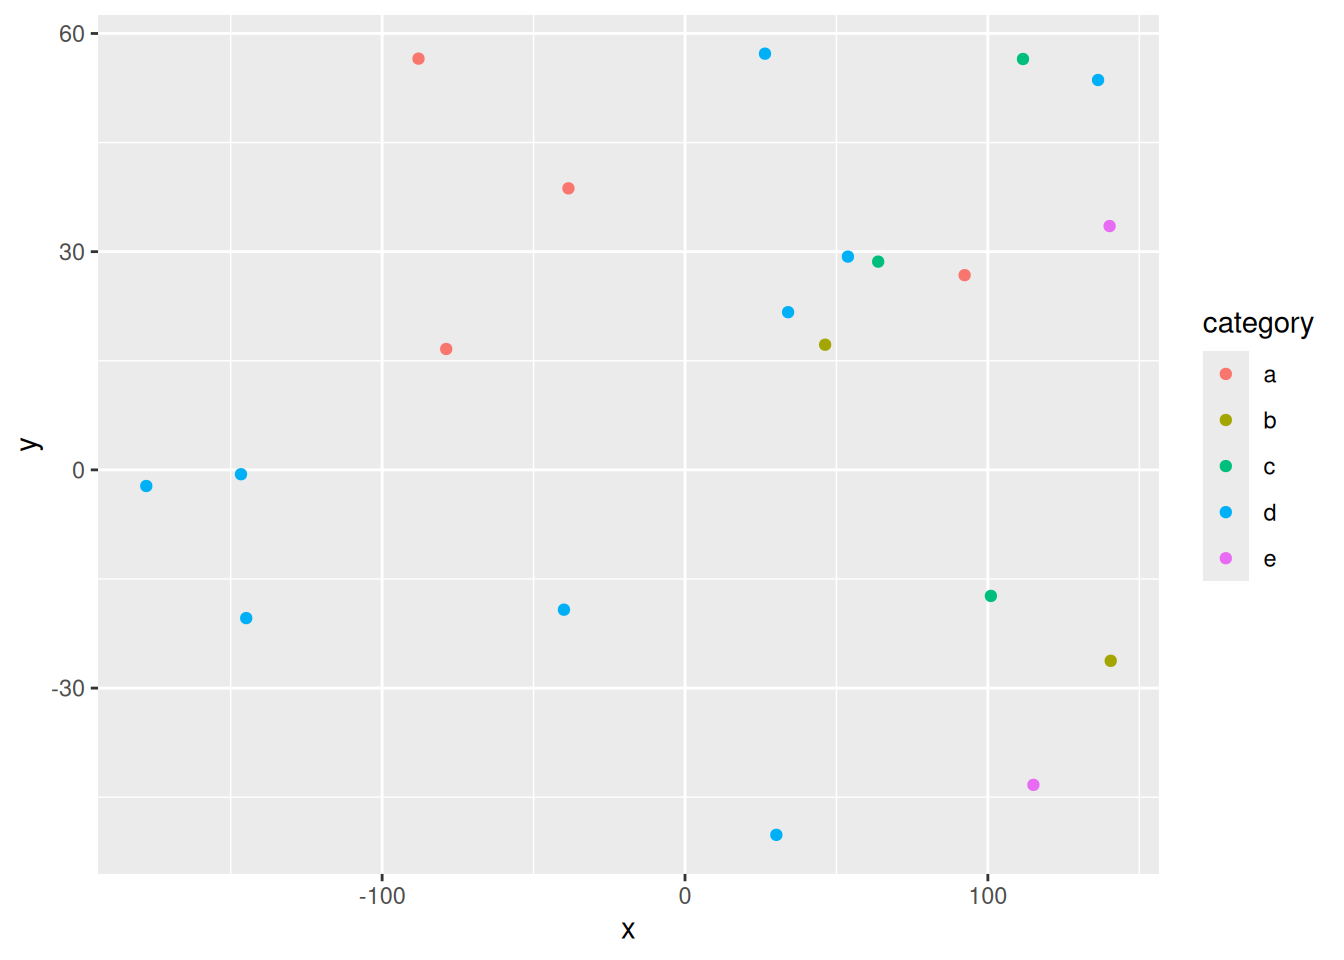
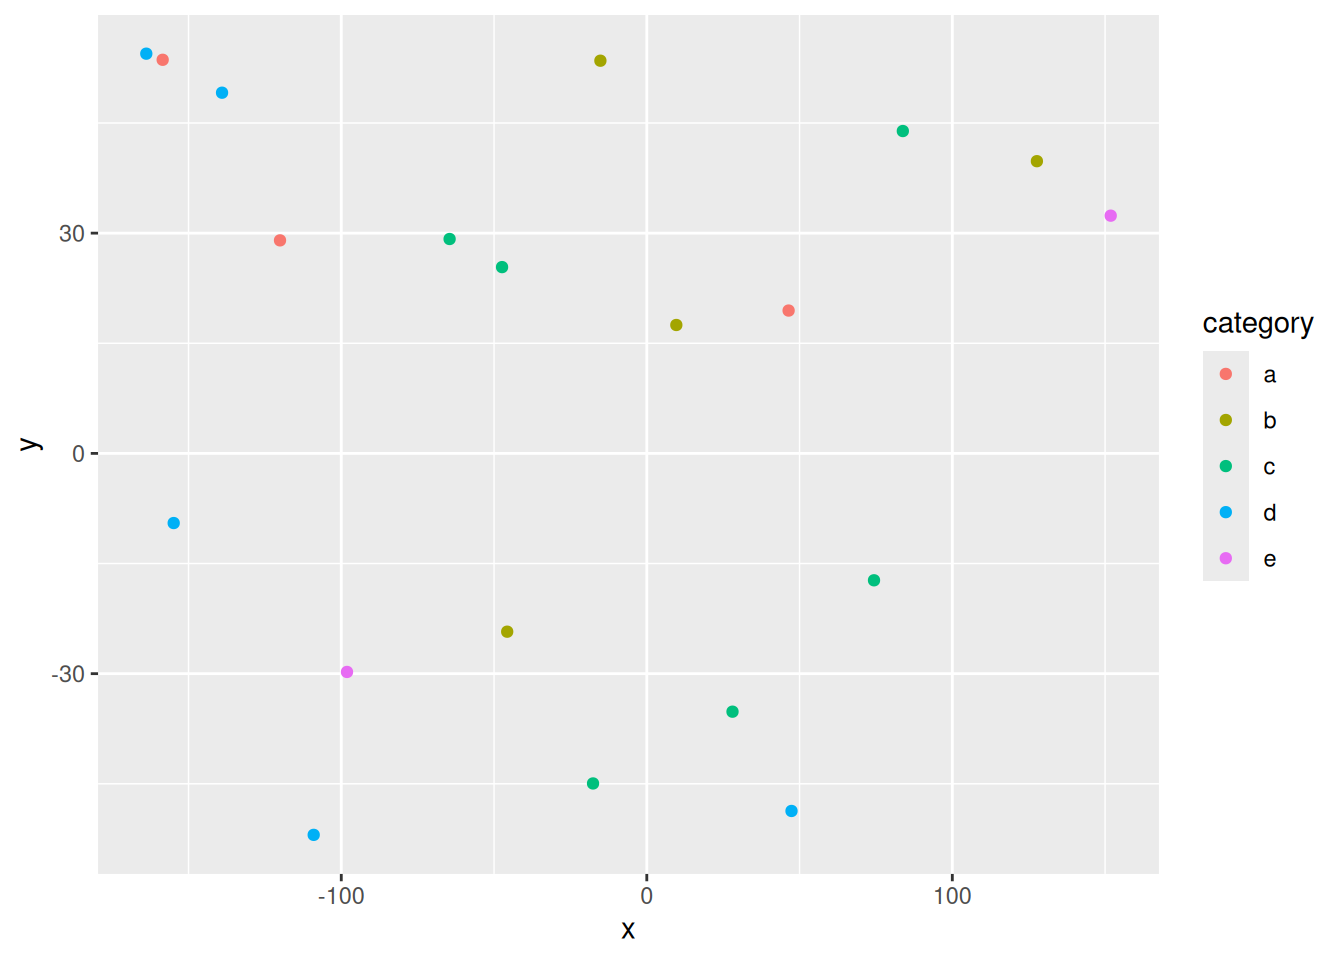
Built site for gh-pages

diff --git a/index.html b/index.html
@@ -7,9 +7,9 @@
 <meta name="viewport" content="width=device-width, initial-scale=1.0, user-scalable=yes">
 
 <meta name="author" content="Your name here">
-<meta name="dcterms.date" content="2025-10-23">
+<meta name="dcterms.date" content="2025-11-04">
 
-<title>My Final Project Template – GEO511_FinalProject</title>
+<title>My Final Project Template – GEO511 911 Project</title>
 <style>
 code{white-space: pre-wrap;}
 span.smallcaps{font-variant: small-caps;}
@@ -138,7 +138,7 @@ pre > code.sourceCode > span > a:first-child::before { text-decoration: underlin
     <a href="./index.html" class="navbar-brand navbar-brand-logo">
     </a>
     <a class="navbar-brand" href="./index.html">
-    <span class="navbar-title">GEO511_FinalProject</span>
+    <span class="navbar-title">GEO511 911 Project</span>
     </a>
   </div>
             <div id="quarto-search" class="" title="Search"></div>
@@ -190,7 +190,7 @@ pre > code.sourceCode > span > a:first-child::before { text-decoration: underlin
     <div>
     <div class="quarto-title-meta-heading">Published</div>
     <div class="quarto-title-meta-contents">
-      <p class="date">October 23, 2025</p>
+      <p class="date">November 4, 2025</p>
     </div>
   </div>
   
@@ -271,74 +271,74 @@ pre > code.sourceCode > span > a:first-child::before { text-decoration: underlin
 </thead>
 <tbody>
 <tr class="odd">
-<td style="text-align: center;">53.79</td>
-<td style="text-align: center;">29.32</td>
-<td style="text-align: center;">12.93</td>
+<td style="text-align: center;">-139.03</td>
+<td style="text-align: center;">49.13</td>
+<td style="text-align: center;">15.29</td>
 <td style="text-align: center;">d</td>
-<td style="text-align: center;">-1.07</td>
+<td style="text-align: center;">0.21</td>
 </tr>
 <tr class="even">
-<td style="text-align: center;">-177.87</td>
-<td style="text-align: center;">-2.22</td>
-<td style="text-align: center;">6.03</td>
-<td style="text-align: center;">d</td>
-<td style="text-align: center;">-0.33</td>
-</tr>
-<tr class="odd">
-<td style="text-align: center;">26.41</td>
-<td style="text-align: center;">57.22</td>
-<td style="text-align: center;">10.30</td>
-<td style="text-align: center;">d</td>
-<td style="text-align: center;">0.57</td>
-</tr>
-<tr class="even">
-<td style="text-align: center;">-144.87</td>
-<td style="text-align: center;">-20.38</td>
-<td style="text-align: center;">19.46</td>
-<td style="text-align: center;">d</td>
-<td style="text-align: center;">0.09</td>
-</tr>
-<tr class="odd">
-<td style="text-align: center;">-39.97</td>
-<td style="text-align: center;">-19.22</td>
-<td style="text-align: center;">6.67</td>
-<td style="text-align: center;">d</td>
-<td style="text-align: center;">1.36</td>
-</tr>
-<tr class="even">
-<td style="text-align: center;">111.60</td>
-<td style="text-align: center;">56.49</td>
-<td style="text-align: center;">15.22</td>
+<td style="text-align: center;">28.06</td>
+<td style="text-align: center;">-35.18</td>
+<td style="text-align: center;">9.41</td>
 <td style="text-align: center;">c</td>
-<td style="text-align: center;">-1.84</td>
+<td style="text-align: center;">0.61</td>
 </tr>
 <tr class="odd">
-<td style="text-align: center;">136.38</td>
-<td style="text-align: center;">53.60</td>
-<td style="text-align: center;">12.09</td>
-<td style="text-align: center;">d</td>
-<td style="text-align: center;">-0.33</td>
+<td style="text-align: center;">-17.60</td>
+<td style="text-align: center;">-44.95</td>
+<td style="text-align: center;">7.71</td>
+<td style="text-align: center;">c</td>
+<td style="text-align: center;">0.43</td>
 </tr>
 <tr class="even">
-<td style="text-align: center;">30.16</td>
-<td style="text-align: center;">-50.18</td>
-<td style="text-align: center;">5.21</td>
-<td style="text-align: center;">d</td>
-<td style="text-align: center;">0.28</td>
+<td style="text-align: center;">-64.54</td>
+<td style="text-align: center;">29.20</td>
+<td style="text-align: center;">13.05</td>
+<td style="text-align: center;">c</td>
+<td style="text-align: center;">0.30</td>
 </tr>
 <tr class="odd">
-<td style="text-align: center;">115.04</td>
-<td style="text-align: center;">-43.30</td>
-<td style="text-align: center;">15.40</td>
+<td style="text-align: center;">151.85</td>
+<td style="text-align: center;">32.38</td>
+<td style="text-align: center;">17.47</td>
 <td style="text-align: center;">e</td>
-<td style="text-align: center;">2.83</td>
+<td style="text-align: center;">0.65</td>
 </tr>
 <tr class="even">
-<td style="text-align: center;">34.04</td>
-<td style="text-align: center;">21.68</td>
-<td style="text-align: center;">8.04</td>
+<td style="text-align: center;">74.37</td>
+<td style="text-align: center;">-17.28</td>
+<td style="text-align: center;">8.23</td>
+<td style="text-align: center;">c</td>
+<td style="text-align: center;">0.24</td>
+</tr>
+<tr class="odd">
+<td style="text-align: center;">-154.85</td>
+<td style="text-align: center;">-9.49</td>
+<td style="text-align: center;">11.67</td>
 <td style="text-align: center;">d</td>
-<td style="text-align: center;">0.13</td>
+<td style="text-align: center;">-0.64</td>
+</tr>
+<tr class="even">
+<td style="text-align: center;">-47.38</td>
+<td style="text-align: center;">25.37</td>
+<td style="text-align: center;">15.08</td>
+<td style="text-align: center;">c</td>
+<td style="text-align: center;">0.12</td>
+</tr>
+<tr class="odd">
+<td style="text-align: center;">127.69</td>
+<td style="text-align: center;">39.80</td>
+<td style="text-align: center;">9.71</td>
+<td style="text-align: center;">b</td>
+<td style="text-align: center;">0.96</td>
+</tr>
+<tr class="even">
+<td style="text-align: center;">-120.06</td>
+<td style="text-align: center;">29.01</td>
+<td style="text-align: center;">5.35</td>
+<td style="text-align: center;">a</td>
+<td style="text-align: center;">-2.56</td>
 </tr>
 </tbody>
 </table>
@@ -358,8 +358,8 @@ pre > code.sourceCode > span > a:first-child::before { text-decoration: underlin
 <span id="cb5-4"><a href="#cb5-4" aria-hidden="true" tabindex="-1"></a>  <span class="fu">addPopups</span>(<span class="sc">~</span>x[<span class="dv">2</span>], <span class="sc">~</span>y[<span class="dv">2</span>], <span class="st">"Random popup"</span>)</span>
 <span id="cb5-5"><a href="#cb5-5" aria-hidden="true" tabindex="-1"></a>m  <span class="co"># a map with the default OSM tile layer</span></span></code></pre></div><button title="Copy to Clipboard" class="code-copy-button"><i class="bi"></i></button></div>
 <div class="cell-output-display">
-<div class="leaflet html-widget html-fill-item" id="htmlwidget-3500131f43f1b51f72bf" style="width:100%;height:325px;"></div>
-<script type="application/json" data-for="htmlwidget-3500131f43f1b51f72bf">{"x":{"options":{"crs":{"crsClass":"L.CRS.EPSG3857","code":null,"proj4def":null,"projectedBounds":null,"options":{}}},"calls":[{"method":"addTiles","args":["https://{s}.tile.openstreetmap.org/{z}/{x}/{y}.png",null,null,{"minZoom":0,"maxZoom":18,"tileSize":256,"subdomains":"abc","errorTileUrl":"","tms":false,"noWrap":false,"zoomOffset":0,"zoomReverse":false,"opacity":1,"zIndex":1,"detectRetina":false,"attribution":"&copy; <a href=\"https://openstreetmap.org/copyright/\">OpenStreetMap<\/a>,  <a href=\"https://opendatacommons.org/licenses/odbl/\">ODbL<\/a>"}]},{"method":"addCircleMarkers","args":[[29.32143260724843,-2.217056108638644,57.22122785635293,-20.38027443923056,-19.22183451242745,56.48714544251561,53.60004108399153,-50.18150324933231,-43.30370276235044,21.67820437811315,33.52087682113051,28.62943145446479,56.54016640037298,16.61862932145596,-17.33095253817737,-26.25238973647356,26.77203113213181,-0.5999741144478321,17.20906298607588,38.70516300201416],[53.78805935382843,-177.8660380281508,26.41120305284858,-144.865376483649,-39.96949796564877,111.5983105637133,136.3840375375003,30.16264208592474,115.0356755778193,34.03960238210857,140.1912639196962,63.78247238695621,-87.98833577893674,-78.8395537622273,100.9929083380848,140.5605056136847,92.32321000657976,-146.5976640768349,46.26656021922827,-38.4827397018671],[12.93352014850825,6.034817178733647,10.30200644163415,19.46151993819512,6.674930345034227,15.21806569653563,12.08990148035809,5.20958787179552,15.40103744948283,8.03518156753853,18.64350995398127,10.58376577566378,19.494179940084,9.645543943624943,7.847512232838199,10.61626432463527,18.99728662101552,6.590229156427085,12.28545587393455,15.88225798564963],null,null,{"interactive":true,"className":"","stroke":true,"color":["d","d","d","d","d","c","d","d","e","d","e","c","a","a","c","b","a","d","b","a"],"weight":5,"opacity":0.5,"fill":true,"fillColor":["d","d","d","d","d","c","d","d","e","d","e","c","a","a","c","b","a","d","b","a"],"fillOpacity":0.2},null,null,null,null,null,{"interactive":false,"permanent":false,"direction":"auto","opacity":1,"offset":[0,0],"textsize":"10px","textOnly":false,"className":"","sticky":true},null]},{"method":"addPopups","args":[-2.217056108638644,-177.8660380281508,"Random popup",null,null,{"maxWidth":300,"minWidth":50,"autoPan":true,"keepInView":false,"closeButton":true,"className":""}]}],"limits":{"lat":[-50.18150324933231,57.22122785635293],"lng":[-177.8660380281508,140.5605056136847]}},"evals":[],"jsHooks":[]}</script>
+<div class="leaflet html-widget html-fill-item" id="htmlwidget-188afbcf5c92aa6c413b" style="width:100%;height:325px;"></div>
+<script type="application/json" data-for="htmlwidget-188afbcf5c92aa6c413b">{"x":{"options":{"crs":{"crsClass":"L.CRS.EPSG3857","code":null,"proj4def":null,"projectedBounds":null,"options":{}}},"calls":[{"method":"addTiles","args":["https://{s}.tile.openstreetmap.org/{z}/{x}/{y}.png",null,null,{"minZoom":0,"maxZoom":18,"tileSize":256,"subdomains":"abc","errorTileUrl":"","tms":false,"noWrap":false,"zoomOffset":0,"zoomReverse":false,"opacity":1,"zIndex":1,"detectRetina":false,"attribution":"&copy; <a href=\"https://openstreetmap.org/copyright/\">OpenStreetMap<\/a>,  <a href=\"https://opendatacommons.org/licenses/odbl/\">ODbL<\/a>"}]},{"method":"addCircleMarkers","args":[[49.12577304057777,-35.17864007502794,-44.95487515814602,29.19979685917497,32.37764608114958,-17.28431954048574,-9.487307695671916,25.37250232882798,39.79852552525699,29.01362607255578,-29.76743772625923,-48.70229861699045,53.60845310613513,53.48389877937734,43.90405956655741,19.45399741642177,17.48825940303504,54.4421751704067,-24.28432255983353,-51.95748740807176],[-139.0278981719166,28.05592129938304,-17.59654968045652,-64.54344559460878,151.8491328600794,74.37018460594118,-154.8540345020592,-47.37549087032676,127.6852337177843,-120.0550118274987,-98.12713916413486,47.36554658040404,-158.4604846313596,-15.1878422498703,83.80376365967095,46.41902158968151,9.665882745757699,-163.8229040801525,-45.69350441917777,-109.0289076324552],[15.29198095086031,9.407837842591107,7.710660320008174,13.04881002055481,17.46901138685644,8.225618617143482,11.66747384821065,15.0787634565495,9.708559007849544,5.349403775762767,15.43038146570325,14.48756599100307,7.556053807493299,12.08692318061367,18.33063098834828,15.92608560924418,13.95819720812142,16.30047332379036,17.57291295565665,9.8859425005503],null,null,{"interactive":true,"className":"","stroke":true,"color":["d","c","c","c","e","c","d","c","b","a","e","d","a","b","c","a","b","d","b","d"],"weight":5,"opacity":0.5,"fill":true,"fillColor":["d","c","c","c","e","c","d","c","b","a","e","d","a","b","c","a","b","d","b","d"],"fillOpacity":0.2},null,null,null,null,null,{"interactive":false,"permanent":false,"direction":"auto","opacity":1,"offset":[0,0],"textsize":"10px","textOnly":false,"className":"","sticky":true},null]},{"method":"addPopups","args":[-35.17864007502794,28.05592129938304,"Random popup",null,null,{"maxWidth":300,"minWidth":50,"autoPan":true,"keepInView":false,"closeButton":true,"className":""}]}],"limits":{"lat":[-51.95748740807176,54.4421751704067],"lng":[-163.8229040801525,151.8491328600794]}},"evals":[],"jsHooks":[]}</script>
 <p>Map of completely random data</p>
 </div>
 </div>
@@ -382,8 +382,8 @@ pre > code.sourceCode > span > a:first-child::before { text-decoration: underlin
 <span id="cb7-2"><a href="#cb7-2" aria-hidden="true" tabindex="-1"></a><span class="fu">dygraph</span>(nhtemp, <span class="at">main =</span> <span class="st">"New Haven Temperatures"</span>) <span class="sc">|&gt;</span> </span>
 <span id="cb7-3"><a href="#cb7-3" aria-hidden="true" tabindex="-1"></a>  <span class="fu">dyRangeSelector</span>(<span class="at">dateWindow =</span> <span class="fu">c</span>(<span class="st">"1920-01-01"</span>, <span class="st">"1960-01-01"</span>)) </span></code></pre></div><button title="Copy to Clipboard" class="code-copy-button"><i class="bi"></i></button></div>
 <div class="cell-output-display">
-<div class="dygraphs html-widget html-fill-item" id="htmlwidget-f2fcaa111210c8c0810b" style="width:100%;height:464px;"></div>
-<script type="application/json" data-for="htmlwidget-f2fcaa111210c8c0810b">{"x":{"attrs":{"title":"New Haven Temperatures","labels":["year","V1"],"legend":"auto","retainDateWindow":false,"axes":{"x":{"pixelsPerLabel":60}},"showRangeSelector":true,"dateWindow":["1920-01-01T00:00:00.000Z","1960-01-01T00:00:00.000Z"],"rangeSelectorHeight":40,"rangeSelectorPlotFillColor":" #A7B1C4","rangeSelectorPlotStrokeColor":"#808FAB","interactionModel":"Dygraph.Interaction.defaultModel"},"scale":"yearly","annotations":[],"shadings":[],"events":[],"format":"date","data":[["1912-01-01T00:00:00.000Z","1913-01-01T00:00:00.000Z","1914-01-01T00:00:00.000Z","1915-01-01T00:00:00.000Z","1916-01-01T00:00:00.000Z","1917-01-01T00:00:00.000Z","1918-01-01T00:00:00.000Z","1919-01-01T00:00:00.000Z","1920-01-01T00:00:00.000Z","1921-01-01T00:00:00.000Z","1922-01-01T00:00:00.000Z","1923-01-01T00:00:00.000Z","1924-01-01T00:00:00.000Z","1925-01-01T00:00:00.000Z","1926-01-01T00:00:00.000Z","1927-01-01T00:00:00.000Z","1928-01-01T00:00:00.000Z","1929-01-01T00:00:00.000Z","1930-01-01T00:00:00.000Z","1931-01-01T00:00:00.000Z","1932-01-01T00:00:00.000Z","1933-01-01T00:00:00.000Z","1934-01-01T00:00:00.000Z","1935-01-01T00:00:00.000Z","1936-01-01T00:00:00.000Z","1937-01-01T00:00:00.000Z","1938-01-01T00:00:00.000Z","1939-01-01T00:00:00.000Z","1940-01-01T00:00:00.000Z","1941-01-01T00:00:00.000Z","1942-01-01T00:00:00.000Z","1943-01-01T00:00:00.000Z","1944-01-01T00:00:00.000Z","1945-01-01T00:00:00.000Z","1946-01-01T00:00:00.000Z","1947-01-01T00:00:00.000Z","1948-01-01T00:00:00.000Z","1949-01-01T00:00:00.000Z","1950-01-01T00:00:00.000Z","1951-01-01T00:00:00.000Z","1952-01-01T00:00:00.000Z","1953-01-01T00:00:00.000Z","1954-01-01T00:00:00.000Z","1955-01-01T00:00:00.000Z","1956-01-01T00:00:00.000Z","1957-01-01T00:00:00.000Z","1958-01-01T00:00:00.000Z","1959-01-01T00:00:00.000Z","1960-01-01T00:00:00.000Z","1961-01-01T00:00:00.000Z","1962-01-01T00:00:00.000Z","1963-01-01T00:00:00.000Z","1964-01-01T00:00:00.000Z","1965-01-01T00:00:00.000Z","1966-01-01T00:00:00.000Z","1967-01-01T00:00:00.000Z","1968-01-01T00:00:00.000Z","1969-01-01T00:00:00.000Z","1970-01-01T00:00:00.000Z","1971-01-01T00:00:00.000Z"],[49.9,52.3,49.4,51.1,49.4,47.9,49.8,50.9,49.3,51.9,50.8,49.6,49.3,50.6,48.4,50.7,50.9,50.6,51.5,52.8,51.8,51.1,49.8,50.2,50.4,51.6,51.8,50.9,48.8,51.7,51,50.6,51.7,51.5,52.1,51.3,51,54,51.4,52.7,53.1,54.6,52,52,50.9,52.6,50.2,52.6,51.6,51.9,50.5,50.9,51.7,51.4,51.7,50.8,51.9,51.8,51.9,53]]},"evals":["attrs.interactionModel"],"jsHooks":[]}</script>
+<div class="dygraphs html-widget html-fill-item" id="htmlwidget-d0a9f1c445d31678275a" style="width:100%;height:464px;"></div>
+<script type="application/json" data-for="htmlwidget-d0a9f1c445d31678275a">{"x":{"attrs":{"title":"New Haven Temperatures","labels":["year","V1"],"legend":"auto","retainDateWindow":false,"axes":{"x":{"pixelsPerLabel":60}},"showRangeSelector":true,"dateWindow":["1920-01-01T00:00:00.000Z","1960-01-01T00:00:00.000Z"],"rangeSelectorHeight":40,"rangeSelectorPlotFillColor":" #A7B1C4","rangeSelectorPlotStrokeColor":"#808FAB","interactionModel":"Dygraph.Interaction.defaultModel"},"scale":"yearly","annotations":[],"shadings":[],"events":[],"format":"date","data":[["1912-01-01T00:00:00.000Z","1913-01-01T00:00:00.000Z","1914-01-01T00:00:00.000Z","1915-01-01T00:00:00.000Z","1916-01-01T00:00:00.000Z","1917-01-01T00:00:00.000Z","1918-01-01T00:00:00.000Z","1919-01-01T00:00:00.000Z","1920-01-01T00:00:00.000Z","1921-01-01T00:00:00.000Z","1922-01-01T00:00:00.000Z","1923-01-01T00:00:00.000Z","1924-01-01T00:00:00.000Z","1925-01-01T00:00:00.000Z","1926-01-01T00:00:00.000Z","1927-01-01T00:00:00.000Z","1928-01-01T00:00:00.000Z","1929-01-01T00:00:00.000Z","1930-01-01T00:00:00.000Z","1931-01-01T00:00:00.000Z","1932-01-01T00:00:00.000Z","1933-01-01T00:00:00.000Z","1934-01-01T00:00:00.000Z","1935-01-01T00:00:00.000Z","1936-01-01T00:00:00.000Z","1937-01-01T00:00:00.000Z","1938-01-01T00:00:00.000Z","1939-01-01T00:00:00.000Z","1940-01-01T00:00:00.000Z","1941-01-01T00:00:00.000Z","1942-01-01T00:00:00.000Z","1943-01-01T00:00:00.000Z","1944-01-01T00:00:00.000Z","1945-01-01T00:00:00.000Z","1946-01-01T00:00:00.000Z","1947-01-01T00:00:00.000Z","1948-01-01T00:00:00.000Z","1949-01-01T00:00:00.000Z","1950-01-01T00:00:00.000Z","1951-01-01T00:00:00.000Z","1952-01-01T00:00:00.000Z","1953-01-01T00:00:00.000Z","1954-01-01T00:00:00.000Z","1955-01-01T00:00:00.000Z","1956-01-01T00:00:00.000Z","1957-01-01T00:00:00.000Z","1958-01-01T00:00:00.000Z","1959-01-01T00:00:00.000Z","1960-01-01T00:00:00.000Z","1961-01-01T00:00:00.000Z","1962-01-01T00:00:00.000Z","1963-01-01T00:00:00.000Z","1964-01-01T00:00:00.000Z","1965-01-01T00:00:00.000Z","1966-01-01T00:00:00.000Z","1967-01-01T00:00:00.000Z","1968-01-01T00:00:00.000Z","1969-01-01T00:00:00.000Z","1970-01-01T00:00:00.000Z","1971-01-01T00:00:00.000Z"],[49.9,52.3,49.4,51.1,49.4,47.9,49.8,50.9,49.3,51.9,50.8,49.6,49.3,50.6,48.4,50.7,50.9,50.6,51.5,52.8,51.8,51.1,49.8,50.2,50.4,51.6,51.8,50.9,48.8,51.7,51,50.6,51.7,51.5,52.1,51.3,51,54,51.4,52.7,53.1,54.6,52,52,50.9,52.6,50.2,52.6,51.6,51.9,50.5,50.9,51.7,51.4,51.7,50.8,51.9,51.8,51.9,53]]},"evals":["attrs.interactionModel"],"jsHooks":[]}</script>
 </div>
 </div>
 </section>
@@ -474,7 +474,7 @@ pre > code.sourceCode > span > a:first-child::before { text-decoration: underlin
     }
       var localhostRegex = new RegExp(/^(?:http|https):\/\/localhost\:?[0-9]*\//);
       var mailtoRegex = new RegExp(/^mailto:/);
-        var filterRegex = new RegExp("https:\/\/AdamWilsonLabEDU\.github\.io\/GEO511_QuartoProjectTemplate\/");
+        var filterRegex = new RegExp("https:\/\/sjdeck\.github\.io\/geo511\/");
       var isInternal = (href) => {
           return filterRegex.test(href) || localhostRegex.test(href) || mailtoRegex.test(href);
       }

diff --git a/about.html b/about.html
@@ -7,7 +7,7 @@
 <meta name="viewport" content="width=device-width, initial-scale=1.0, user-scalable=yes">
 
 
-<title>About – GEO511_FinalProject</title>
+<title>About – GEO511 911 Project</title>
 <style>
 code{white-space: pre-wrap;}
 span.smallcaps{font-variant: small-caps;}
@@ -117,7 +117,7 @@ pre > code.sourceCode > span > a:first-child::before { text-decoration: underlin
     <a href="./index.html" class="navbar-brand navbar-brand-logo">
     </a>
     <a class="navbar-brand" href="./index.html">
-    <span class="navbar-title">GEO511_FinalProject</span>
+    <span class="navbar-title">GEO511 911 Project</span>
     </a>
   </div>
             <div id="quarto-search" class="" title="Search"></div>
@@ -252,7 +252,7 @@ pre > code.sourceCode > span > a:first-child::before { text-decoration: underlin
     }
       var localhostRegex = new RegExp(/^(?:http|https):\/\/localhost\:?[0-9]*\//);
       var mailtoRegex = new RegExp(/^mailto:/);
-        var filterRegex = new RegExp("https:\/\/AdamWilsonLabEDU\.github\.io\/GEO511_QuartoProjectTemplate\/");
+        var filterRegex = new RegExp("https:\/\/sjdeck\.github\.io\/geo511\/");
       var isInternal = (href) => {
           return filterRegex.test(href) || localhostRegex.test(href) || mailtoRegex.test(href);
       }

diff --git a/data/Readme.html b/data/Readme.html
@@ -7,7 +7,7 @@
 <meta name="viewport" content="width=device-width, initial-scale=1.0, user-scalable=yes">
 
 
-<title>readme – GEO511_FinalProject</title>
+<title>readme – GEO511 911 Project</title>
 <style>
 code{white-space: pre-wrap;}
 span.smallcaps{font-variant: small-caps;}
@@ -82,7 +82,7 @@ ul.task-list li input[type="checkbox"] {
     <a href="../index.html" class="navbar-brand navbar-brand-logo">
     </a>
     <a class="navbar-brand" href="../index.html">
-    <span class="navbar-title">GEO511_FinalProject</span>
+    <span class="navbar-title">GEO511 911 Project</span>
     </a>
   </div>
             <div id="quarto-search" class="" title="Search"></div>
@@ -198,7 +198,7 @@ ul.task-list li input[type="checkbox"] {
     }
       var localhostRegex = new RegExp(/^(?:http|https):\/\/localhost\:?[0-9]*\//);
       var mailtoRegex = new RegExp(/^mailto:/);
-        var filterRegex = new RegExp("https:\/\/AdamWilsonLabEDU\.github\.io\/GEO511_QuartoProjectTemplate\/");
+        var filterRegex = new RegExp("https:\/\/sjdeck\.github\.io\/geo511\/");
       var isInternal = (href) => {
           return filterRegex.test(href) || localhostRegex.test(href) || mailtoRegex.test(href);
       }
